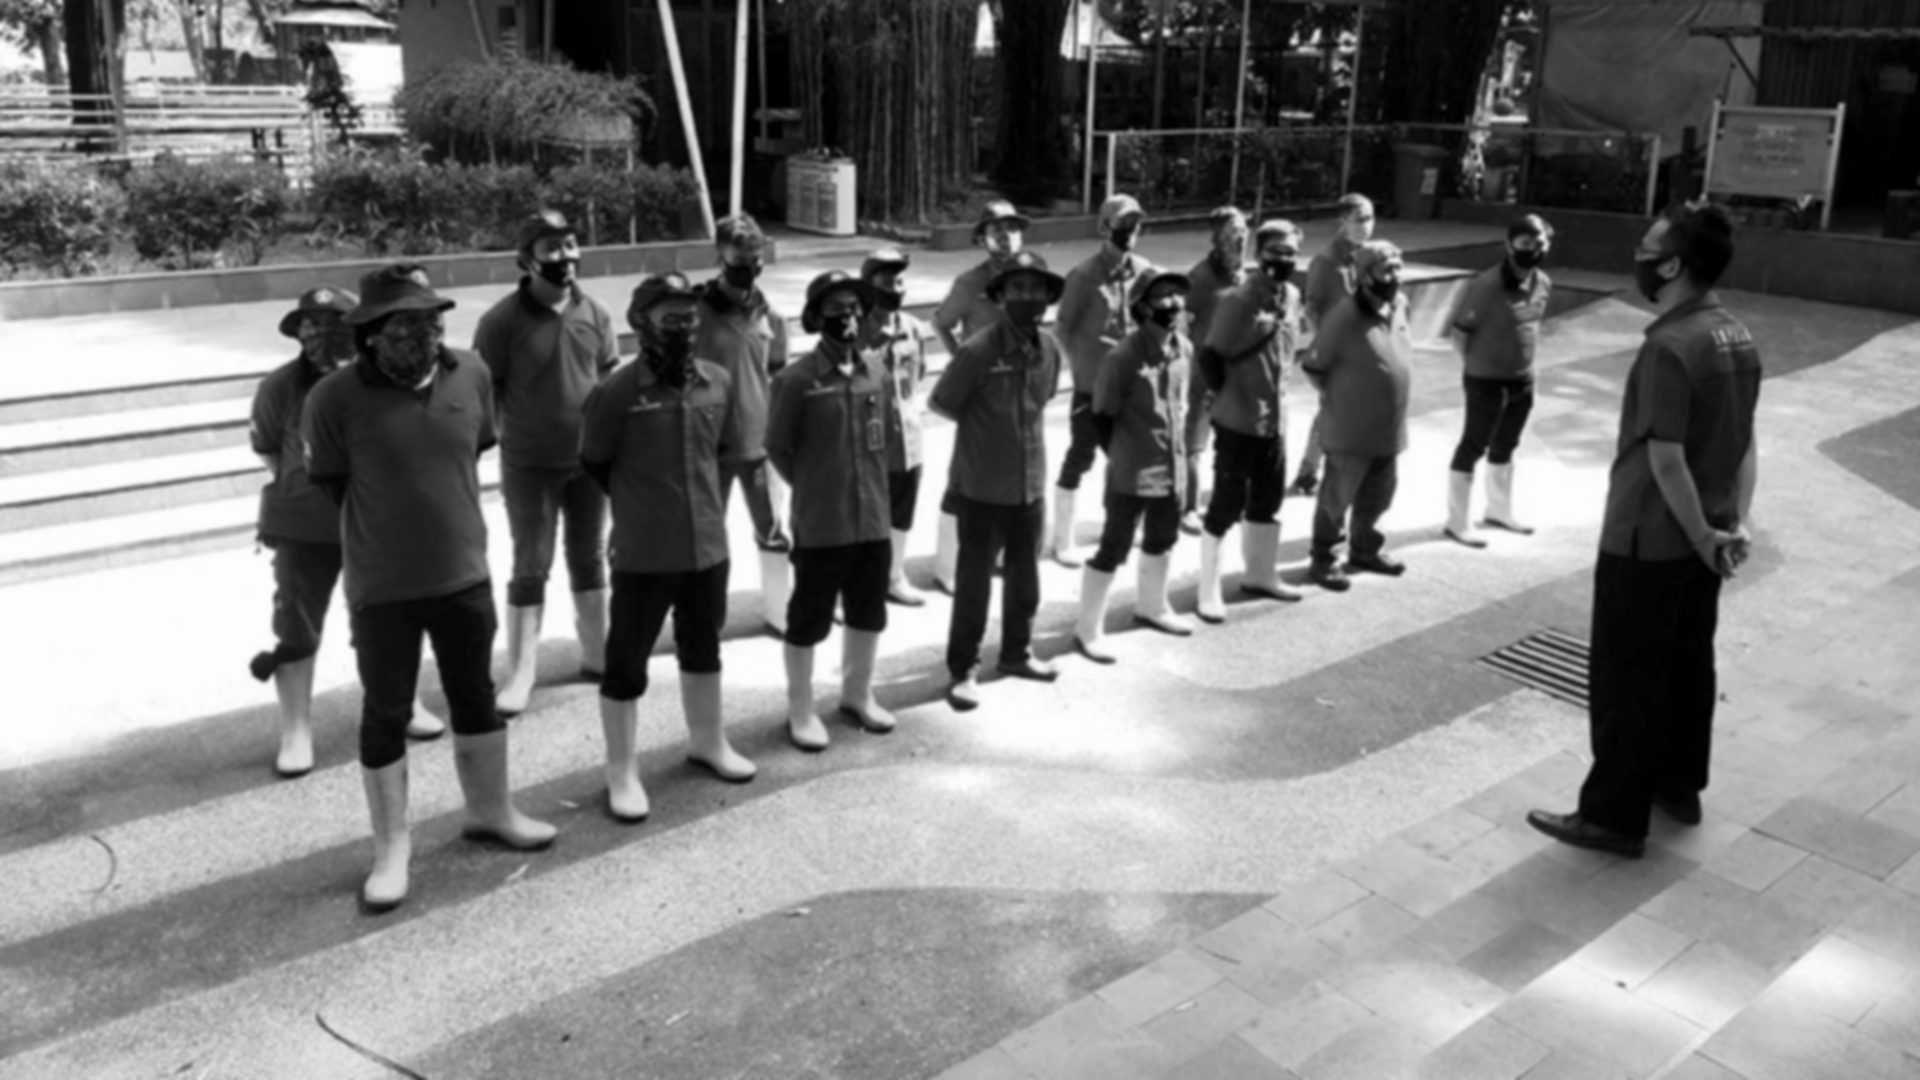
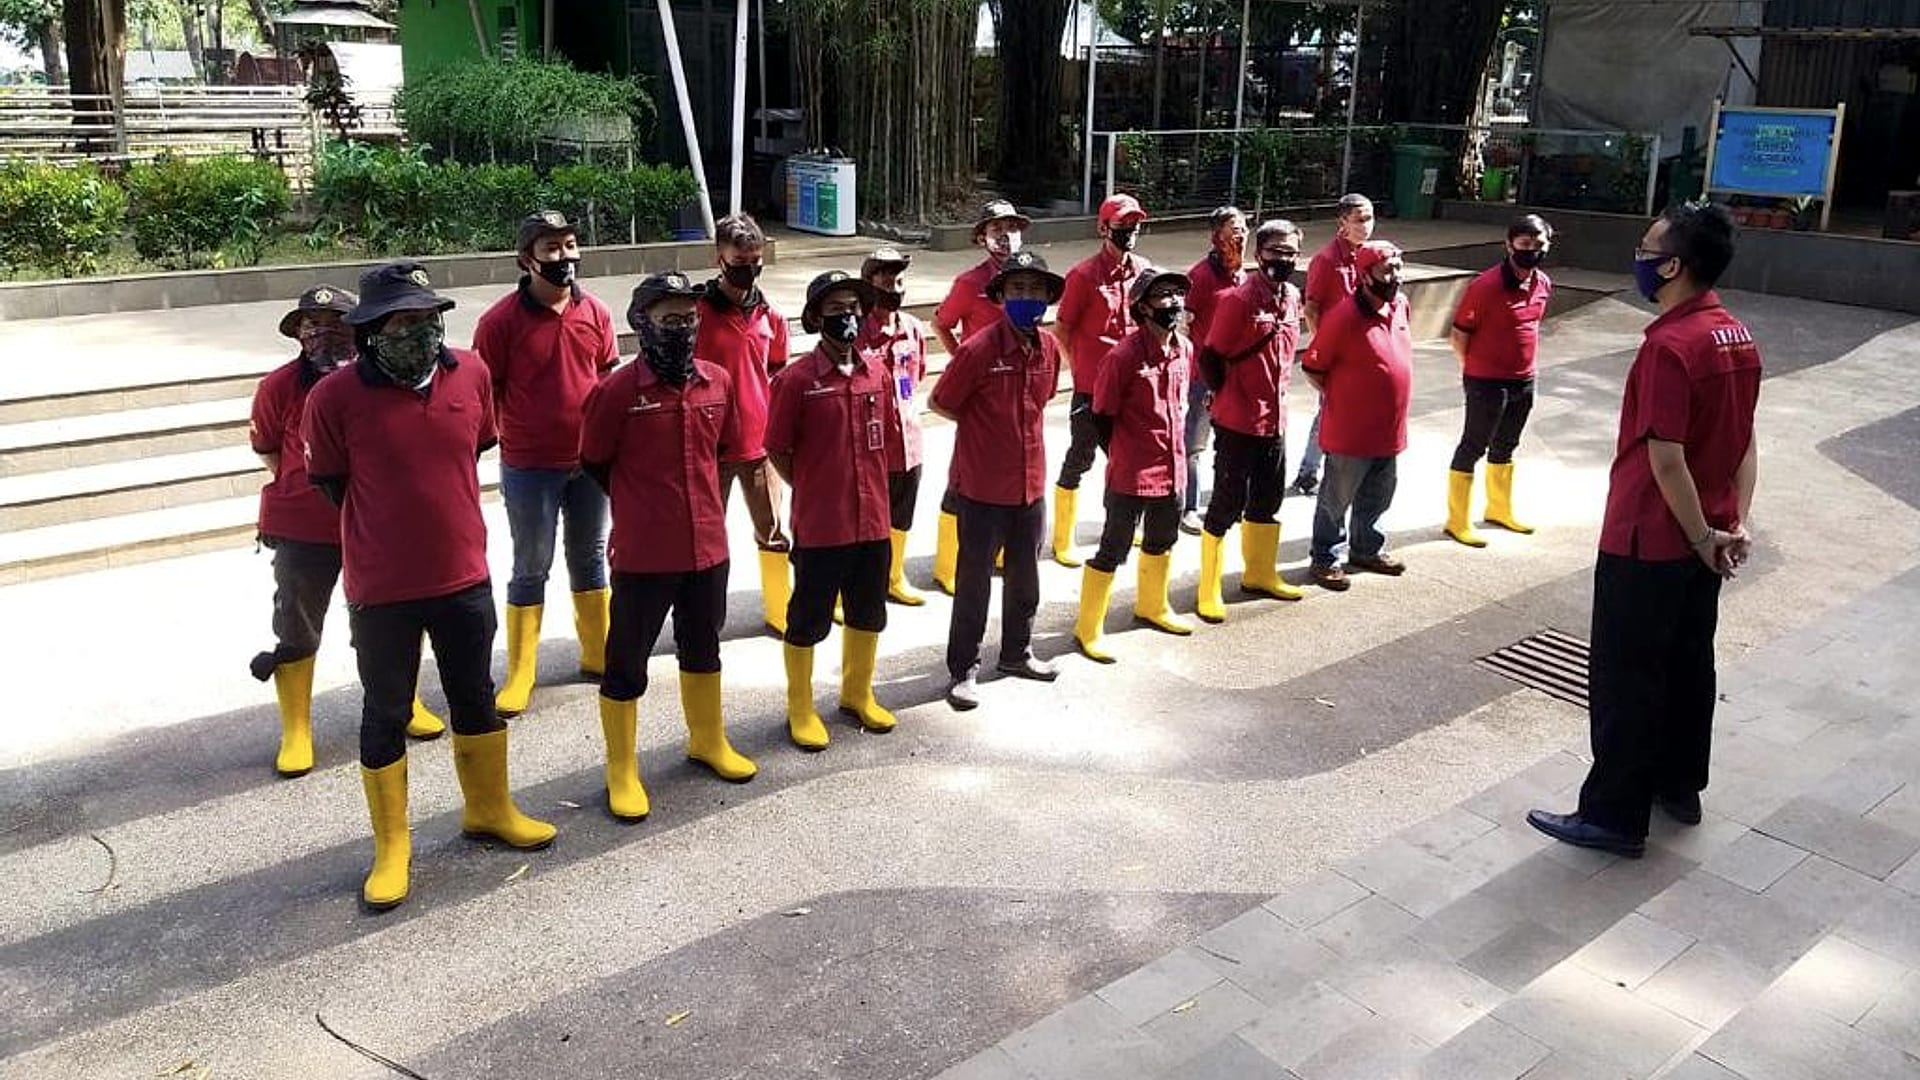
Update remove oldschool view

diff --git a/src/components/ui/PhotoBackdrop.tsx b/src/components/ui/PhotoBackdrop.tsx
@@ -2,16 +2,17 @@ import { cx } from '../cx';
 import type { ResponsiveImage } from '../types';
 
 export type PhotoBackdropProps = {
-  /** Foto hitam-putih dari src/assets/backdrops/ (scripts/generate-backdrops.mjs); `alt` kosong. */
+  /** Foto berwarna dari src/assets/backdrops/ (scripts/generate-backdrops.mjs); `alt` kosong. */
   image: ResponsiveImage;
-  /** `dark` = foto redup di latar `primary-950`; `light` = foto sangat samar di latar terang. */
+  /** `dark` = foto di bawah gradasi arang di latar `primary-950`; `light` = foto samar di latar terang. */
   tone?: 'dark' | 'light';
 };
 
 /**
- * Foto dokumentasi sebagai tekstur latar section: redup + butiran film, murni dekoratif.
+ * Foto dokumentasi sebagai latar section, murni dekoratif. Section gelap: foto berwarna digradasi
+ * arang ke arah teks plus rona merah brand; section terang: foto samar yang memudar ke putih.
  * Letakkan sebagai anak pertama section yang `relative isolate overflow-hidden`
- * (`backdropHostClass`). Kegelapan foto dijaga agar teks di atasnya tetap kontras AA.
+ * (`backdropHostClass`). Kegelapan lapisan dijaga agar teks di atasnya tetap kontras AA.
  */
 export default function PhotoBackdrop({ image, tone = 'dark' }: PhotoBackdropProps) {
   const dark = tone === 'dark';
@@ -21,17 +22,15 @@ export default function PhotoBackdrop({ image, tone = 'dark' }: PhotoBackdropPro
         {...image}
         loading="lazy"
         decoding="async"
-        className={cx('size-full object-cover', dark ? 'opacity-25' : 'backdrop-fade-y opacity-8')}
+        className={cx('size-full object-cover', !dark && 'backdrop-fade-y opacity-15')}
       />
       {dark && (
-        <div className="absolute inset-0 bg-linear-to-b from-primary-950 via-transparent to-primary-950" />
+        <>
+          <div className="absolute inset-0 bg-linear-to-r from-primary-950/90 via-primary-950/80 to-primary-950/70" />
+          <div className="absolute inset-0 bg-linear-to-tl from-accent-700/20 via-transparent to-transparent" />
+          <div className="absolute inset-0 bg-linear-to-b from-primary-950 via-transparent to-primary-950" />
+        </>
       )}
-      <div
-        className={cx(
-          'absolute inset-0 grain',
-          dark ? 'opacity-40 mix-blend-overlay' : 'opacity-5 mix-blend-multiply',
-        )}
-      />
     </div>
   );
 }

diff --git a/src/lib/sections/backdrops.ts b/src/lib/sections/backdrops.ts
@@ -1,6 +1,5 @@
 import type { ImageMetadata } from 'astro';
 import cleaningTraining from '../../assets/backdrops/pelatihan-cleaning-service.jpg';
-import hydrantTraining from '../../assets/backdrops/pelatihan-hidran.jpg';
 import physicalTraining from '../../assets/backdrops/pembinaan-fisik.jpg';
 import { responsiveImage, type ResponsiveImage } from '../image';
 
@@ -9,7 +8,6 @@ import { responsiveImage, type ResponsiveImage } from '../image';
  * hapus barisnya untuk mengembalikan section itu ke latar polos.
  */
 const backdrops = {
-  stats: hydrantTraining,
   vision: physicalTraining,
   operations: cleaningTraining,
 } satisfies Record<string, ImageMetadata>;

diff --git a/src/styles/global.css b/src/styles/global.css
@@ -472,13 +472,8 @@
 
 /*
  * Latar foto section (komponen PhotoBackdrop; foto dibuat scripts/generate-backdrops.mjs).
- * `grain` = butiran film di atas foto, menyamarkan resolusi rendah & banding.
  * `backdrop-fade-y` = foto memudar ke atas/bawah agar menyatu dengan section putih di sekitarnya.
  */
-@utility grain {
-  background-image: url('../assets/textures/grain.png');
-  background-size: 8rem;
-}
 @utility backdrop-fade-y {
   mask-image: linear-gradient(to bottom, transparent 0%, black 30%, black 70%, transparent 100%);
 }

diff --git a/src/lib/sections/about.ts b/src/lib/sections/about.ts
@@ -29,7 +29,6 @@ export async function loadAbout() {
       note: home.statsNote,
       stats: [...site.stats],
       locale: lang,
-      backdrop: await loadBackdrop('stats'),
     } satisfies SectionData<StatsBandProps>,
     visionMission: {
       visionTitle: about.visionTitle,

diff --git a/docs/CONTENT_GUIDE.md b/docs/CONTENT_GUIDE.md
@@ -43,12 +43,12 @@ Tutupi dulu data yang tidak perlu dipublikasikan (NIK, alamat pribadi) sebelum m
 
 ## Latar foto section
 
-Beberapa section memakai foto dokumentasi sebagai tekstur latar (hitam-putih, redup, berbutir).
+Beberapa section gelap memakai foto dokumentasi berwarna sebagai latar, ditimpa gradasi arang agar teks tetap terbaca.
 
 1. Daftarkan foto sumber di `scripts/generate-backdrops.mjs` (objek `backdrops`), lalu jalankan `npm run backdrops`. Hasilnya tersimpan di `src/assets/backdrops/`.
 2. Petakan foto ke section di `src/lib/sections/backdrops.ts`. Hapus barisnya untuk mengembalikan section ke latar polos.
 
-Foto dengan area terang yang luas (langit, lantai) paling cocok; hindari foto yang wajahnya memenuhi bingkai.
+Pilih foto yang tajam dengan banyak orang/aktivitas dan warna seragam yang jelas; hindari foto yang wajahnya memenuhi bingkai atau yang didominasi langit putih.
 
 ## Logo klien
 
